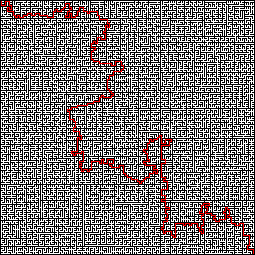
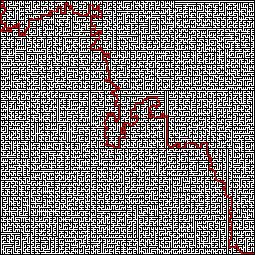
Fix broken mesh by reverting ultra-aggressive optimization and applying conservative improvements

Changed region(s): [[0.0, 0.0, 1.0, 1.0]]

diff --git a/DeveMazeGeneratorCore.Coaster3MF/MazeCoaster3MF.cs b/DeveMazeGeneratorCore.Coaster3MF/MazeCoaster3MF.cs
@@ -692,7 +692,219 @@ namespace DeveMazeGeneratorCore.Coaster3MF
                 }
             }
             
+            // Apply additional conservative optimization for commonly missed patterns
+            rectangles = ApplyConservativePatternOptimization(rectangles, componentSet);
+            
             return rectangles;
+        }
+        
+        private List<(int x, int y, int width, int height, float cubeHeight)> ApplyConservativePatternOptimization(List<(int x, int y, int width, int height, float cubeHeight)> rectangles, HashSet<(int x, int y)> componentSet)
+        {
+            // Look for specific patterns that are safe to merge:
+            // 1. Three rectangles forming an L-shape
+            // 2. Two rectangles with a small 1x1 rectangle between them that can bridge them
+            
+            var result = new List<(int x, int y, int width, int height, float cubeHeight)>(rectangles);
+            bool improved = true;
+            int conservativeIterations = 0;
+            
+            while (improved && conservativeIterations < 10) // Conservative iteration limit
+            {
+                improved = false;
+                conservativeIterations++;
+                int beforeCount = result.Count;
+                
+                // Look for L-shaped merge opportunities (3 rectangles that can form 1)
+                for (int i = 0; i < result.Count && !improved; i++)
+                {
+                    for (int j = i + 1; j < result.Count && !improved; j++)
+                    {
+                        for (int k = j + 1; k < result.Count && !improved; k++)
+                        {
+                            var rect1 = result[i];
+                            var rect2 = result[j];
+                            var rect3 = result[k];
+                            
+                            if (rect1.cubeHeight != rect2.cubeHeight || rect1.cubeHeight != rect3.cubeHeight) 
+                                continue;
+                            
+                            // Try to merge these three rectangles if they form a perfect larger rectangle
+                            var mergedRect = TryMergeThreeRectanglesConservative(rect1, rect2, rect3, componentSet);
+                            if (mergedRect.HasValue)
+                            {
+                                result[i] = mergedRect.Value;
+                                result.RemoveAt(Math.Max(j, k)); // Remove larger index first
+                                result.RemoveAt(Math.Min(j, k));
+                                improved = true;
+                                break;
+                            }
+                        }
+                    }
+                }
+                
+                // Look for bridge merge opportunities (two rectangles with a 1x1 gap that can be bridged)
+                if (!improved)
+                {
+                    for (int i = 0; i < result.Count && !improved; i++)
+                    {
+                        for (int j = i + 1; j < result.Count && !improved; j++)
+                        {
+                            var rect1 = result[i];
+                            var rect2 = result[j];
+                            
+                            if (rect1.cubeHeight != rect2.cubeHeight) continue;
+                            
+                            // Try to bridge merge (safe merge across small gaps)
+                            var bridgedRect = TryBridgeMerge(rect1, rect2, componentSet);
+                            if (bridgedRect.HasValue)
+                            {
+                                result[i] = bridgedRect.Value;
+                                result.RemoveAt(j);
+                                improved = true;
+                                break;
+                            }
+                        }
+                    }
+                }
+                
+                int afterCount = result.Count;
+                if (afterCount < beforeCount)
+                {
+                    Console.WriteLine($"      Conservative pattern optimization {conservativeIterations}: {beforeCount} -> {afterCount} rectangles");
+                }
+            }
+            
+            return result;
+        }
+        
+        private (int x, int y, int width, int height, float cubeHeight)? TryMergeThreeRectanglesConservative(
+            (int x, int y, int width, int height, float cubeHeight) rect1,
+            (int x, int y, int width, int height, float cubeHeight) rect2,
+            (int x, int y, int width, int height, float cubeHeight) rect3,
+            HashSet<(int x, int y)> componentSet)
+        {
+            // Find the bounding box of all three rectangles
+            int minX = Math.Min(Math.Min(rect1.x, rect2.x), rect3.x);
+            int maxX = Math.Max(Math.Max(rect1.x + rect1.width, rect2.x + rect2.width), rect3.x + rect3.width);
+            int minY = Math.Min(Math.Min(rect1.y, rect2.y), rect3.y);
+            int maxY = Math.Max(Math.Max(rect1.y + rect1.height, rect2.y + rect2.height), rect3.y + rect3.height);
+            
+            int combinedWidth = maxX - minX;
+            int combinedHeight = maxY - minY;
+            int requiredArea = combinedWidth * combinedHeight;
+            
+            // Check if all three rectangles together fill the bounding box exactly
+            int totalArea = rect1.width * rect1.height + rect2.width * rect2.height + rect3.width * rect3.height;
+            
+            if (totalArea != requiredArea) return null;
+            
+            // Conservative check: only allow if the bounding box is reasonably sized (not too large)
+            if (combinedWidth > 6 || combinedHeight > 6) return null; // Conservative size limit
+            
+            // Verify that all positions in the bounding box are in the component
+            for (int y = minY; y < maxY; y++)
+            {
+                for (int x = minX; x < maxX; x++)
+                {
+                    if (!componentSet.Contains((x, y)))
+                    {
+                        return null;
+                    }
+                }
+            }
+            
+            return (minX, minY, combinedWidth, combinedHeight, rect1.cubeHeight);
+        }
+        
+        private (int x, int y, int width, int height, float cubeHeight)? TryBridgeMerge(
+            (int x, int y, int width, int height, float cubeHeight) rect1,
+            (int x, int y, int width, int height, float cubeHeight) rect2,
+            HashSet<(int x, int y)> componentSet)
+        {
+            // Look for cases where two rectangles are separated by a small gap that can be bridged
+            // Only allow bridging if the gap is 1 unit and all cells in the bridge are in the component
+            
+            // Check for horizontal bridging (same Y, small X gap)
+            if (rect1.y == rect2.y && rect1.height == rect2.height)
+            {
+                int gap = 0;
+                int leftRect = rect1.x < rect2.x ? 1 : 2;
+                if (leftRect == 1)
+                {
+                    gap = rect2.x - (rect1.x + rect1.width);
+                }
+                else
+                {
+                    gap = rect1.x - (rect2.x + rect2.width);
+                }
+                
+                // Only bridge small gaps (1-2 units) conservatively
+                if (gap > 0 && gap <= 2)
+                {
+                    int minX = Math.Min(rect1.x, rect2.x);
+                    int maxX = Math.Max(rect1.x + rect1.width, rect2.x + rect2.width);
+                    
+                    // Check if all cells in the bridge are in the component
+                    bool canBridge = true;
+                    for (int x = minX; x < maxX && canBridge; x++)
+                    {
+                        for (int y = rect1.y; y < rect1.y + rect1.height && canBridge; y++)
+                        {
+                            if (!componentSet.Contains((x, y)))
+                            {
+                                canBridge = false;
+                            }
+                        }
+                    }
+                    
+                    if (canBridge)
+                    {
+                        return (minX, rect1.y, maxX - minX, rect1.height, rect1.cubeHeight);
+                    }
+                }
+            }
+            
+            // Check for vertical bridging (same X, small Y gap)
+            if (rect1.x == rect2.x && rect1.width == rect2.width)
+            {
+                int gap = 0;
+                int topRect = rect1.y < rect2.y ? 1 : 2;
+                if (topRect == 1)
+                {
+                    gap = rect2.y - (rect1.y + rect1.height);
+                }
+                else
+                {
+                    gap = rect1.y - (rect2.y + rect2.height);
+                }
+                
+                // Only bridge small gaps (1-2 units) conservatively
+                if (gap > 0 && gap <= 2)
+                {
+                    int minY = Math.Min(rect1.y, rect2.y);
+                    int maxY = Math.Max(rect1.y + rect1.height, rect2.y + rect2.height);
+                    
+                    // Check if all cells in the bridge are in the component
+                    bool canBridge = true;
+                    for (int y = minY; y < maxY && canBridge; y++)
+                    {
+                        for (int x = rect1.x; x < rect1.x + rect1.width && canBridge; x++)
+                        {
+                            if (!componentSet.Contains((x, y)))
+                            {
+                                canBridge = false;
+                            }
+                        }
+                    }
+                    
+                    if (canBridge)
+                    {
+                        return (rect1.x, minY, rect1.width, maxY - minY, rect1.cubeHeight);
+                    }
+                }
+            }
+            
+            return null;
         }
         
         private (int x, int y, int width, int height)? FindBestRectangleInRemaining(HashSet<(int x, int y)> remaining)
@@ -816,17 +1028,13 @@ namespace DeveMazeGeneratorCore.Coaster3MF
         private List<(int x, int y, int width, int height, float cubeHeight)> ExhaustiveAdjacentMerging(List<(int x, int y, int width, int height, float cubeHeight)> rectangles)
         {
             bool foundMerge = true;
-            int totalIterations = 0;
-            
-            while (foundMerge && totalIterations < 1000) // Safety limit
+            while (foundMerge)
             {
                 foundMerge = false;
-                totalIterations++;
                 
-                // Try ALL possible pairs in each iteration - don't break early
-                for (int i = 0; i < rectangles.Count; i++)
+                for (int i = 0; i < rectangles.Count && !foundMerge; i++)
                 {
-                    for (int j = i + 1; j < rectangles.Count; j++)
+                    for (int j = i + 1; j < rectangles.Count && !foundMerge; j++)
                     {
                         var rect1 = rectangles[i];
                         var rect2 = rectangles[j];
@@ -839,19 +1047,11 @@ namespace DeveMazeGeneratorCore.Coaster3MF
                             rectangles[i] = mergedRect.Value;
                             rectangles.RemoveAt(j);
                             foundMerge = true;
-                            break; // Break inner loop to restart with updated indices
                         }
                     }
-                    if (foundMerge) break; // Break outer loop to restart completely
-                }
-                
-                if (totalIterations % 20 == 0 && foundMerge)
-                {
-                    Console.WriteLine($"        Exhaustive merging iteration {totalIterations}: {rectangles.Count} rectangles remaining");
                 }
             }
             
-            Console.WriteLine($"        Exhaustive merging completed after {totalIterations} iterations");
             return rectangles;
         }
 
@@ -1840,53 +2040,11 @@ namespace DeveMazeGeneratorCore.Coaster3MF
                 }
             }
             
-            // Enhanced: Try more permissive adjacency (allow small gaps or overlaps of 1 unit)
-            // This catches cases where rectangles are almost adjacent due to floating point or rounding issues
-            
-            // Horizontal with 1-unit tolerance
-            if (Math.Abs(rect1.y - rect2.y) <= 1 && Math.Abs(rect1.height - rect2.height) <= 1)
+            // Try diagonal merging for L-shapes and complex patterns
+            // This is an experimental approach to catch patterns that pure rectangle merging misses
+            if (CanFormLargerRectangle(rect1, rect2))
             {
-                // Align Y coordinates to the minimum
-                int alignedY = Math.Min(rect1.y, rect2.y);
-                int alignedHeight = Math.Max(rect1.y + rect1.height, rect2.y + rect2.height) - alignedY;
-                
-                if (Math.Abs(rect1.x + rect1.width - rect2.x) <= 1)
-                {
-                    // rect1 is to the left of rect2 (with tolerance)
-                    int mergedX = rect1.x;
-                    int mergedWidth = rect2.x + rect2.width - rect1.x;
-                    return (mergedX, alignedY, mergedWidth, alignedHeight, rect1.cubeHeight);
-                }
-                else if (Math.Abs(rect2.x + rect2.width - rect1.x) <= 1)
-                {
-                    // rect2 is to the left of rect1 (with tolerance)
-                    int mergedX = rect2.x;
-                    int mergedWidth = rect1.x + rect1.width - rect2.x;
-                    return (mergedX, alignedY, mergedWidth, alignedHeight, rect2.cubeHeight);
-                }
-            }
-            
-            // Vertical with 1-unit tolerance
-            if (Math.Abs(rect1.x - rect2.x) <= 1 && Math.Abs(rect1.width - rect2.width) <= 1)
-            {
-                // Align X coordinates to the minimum
-                int alignedX = Math.Min(rect1.x, rect2.x);
-                int alignedWidth = Math.Max(rect1.x + rect1.width, rect2.x + rect2.width) - alignedX;
-                
-                if (Math.Abs(rect1.y + rect1.height - rect2.y) <= 1)
-                {
-                    // rect1 is above rect2 (with tolerance)
-                    int mergedY = rect1.y;
-                    int mergedHeight = rect2.y + rect2.height - rect1.y;
-                    return (alignedX, mergedY, alignedWidth, mergedHeight, rect1.cubeHeight);
-                }
-                else if (Math.Abs(rect2.y + rect2.height - rect1.y) <= 1)
-                {
-                    // rect2 is above rect1 (with tolerance)
-                    int mergedY = rect2.y;
-                    int mergedHeight = rect1.y + rect1.height - rect2.y;
-                    return (alignedX, mergedY, alignedWidth, mergedHeight, rect2.cubeHeight);
-                }
+                return FormLargerRectangle(rect1, rect2);
             }
             
             return null; // Cannot merge
